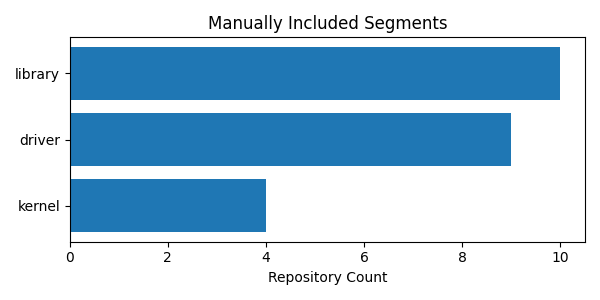
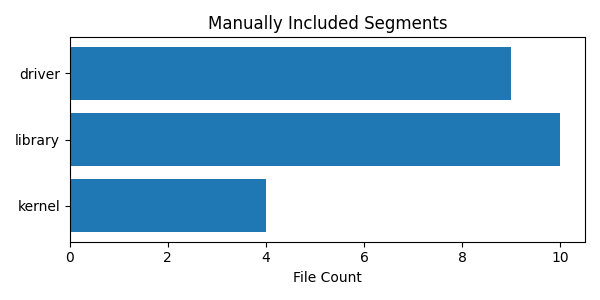
updated some labels

diff --git a/analyzer/path_classification.py b/analyzer/path_classification.py
@@ -78,7 +78,7 @@ def plot_top_segments(n=15, exclude=excluded_segments, include=included_segments
     plt.figure(figsize=(10, 6))
     plt.barh(labels[::-1], values[::-1])
     plt.title(f"Top {n} Normalized Rust File Directory Segments")
-    plt.xlabel("Repository Count")
+    plt.xlabel("File Count")
     plt.tight_layout()
     plt.savefig("rust_paths_segments.png")
     plt.show()
@@ -93,7 +93,7 @@ def plot_included_segments(included=included_segments):
     plt.figure(figsize=(6, 3))
     plt.barh(labels[::-1], values[::-1])
     plt.title("Manually Included Segments")
-    plt.xlabel("Repository Count")
+    plt.xlabel("File Count")
     plt.tight_layout()
     plt.savefig("included_segments.png")
     plt.show()

diff --git a/analyzer/find_kernel_driver.py b/analyzer/find_kernel_driver.py
@@ -1,0 +1,19 @@
+import pandas as pd
+
+# Load the data
+df = pd.read_csv("ffi_metrics_cleaned.csv", index_col=0)
+
+# Separate kernel and driver matches
+kernel_df = df[df.index.str.contains("kernel", case=False)].sort_values(by="total_lines", ascending=False)
+driver_df = df[df.index.str.contains("driver", case=False) & ~df.index.str.contains("kernel", case=False)].sort_values(by="total_lines", ascending=False)
+
+# Combine them (kernel first)
+combined = pd.concat([kernel_df, driver_df])
+
+# Save to output file
+combined.to_csv("find_kernel_driver.csv")
+
+# Print repo names
+print("Repositories matching 'kernel' or 'driver':")
+for name in combined.index:
+    print(name)
